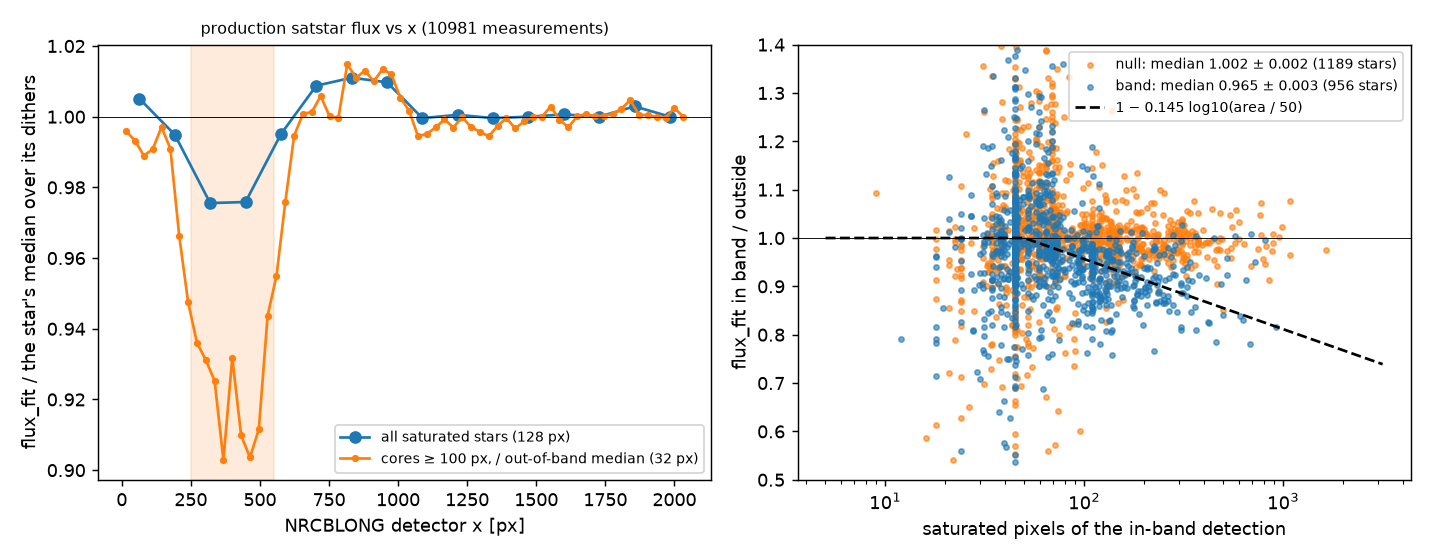
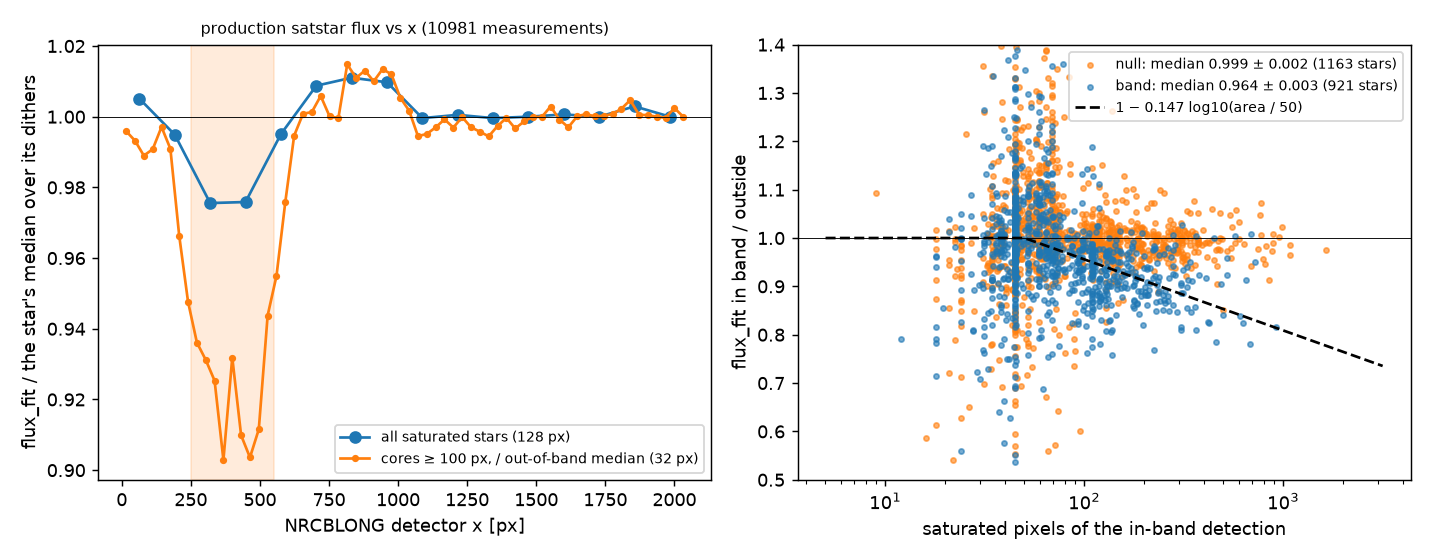
production_flux_vs_x: clean "outside" set, band / null per area bin (review of #1053)
"Outside" now excludes both the band and the null band (+-50 px), so the
band's low dithers no longer lower the null's denominator.  The null keeps a
weak size trend (1.011 -> 0.984), so band / null per sat_area bin is
reported as the column term: 0.993, 0.957, 0.919, 0.856.  Depth model
k = 0.147 (was 0.145).  README notes the two area definitions.

Claude-Session: https://claude.ai/code/session_019Hxd1TwexvNohkczb2tYoE

diff --git a/scripts/analysis/satstar_perexp_halo/production_flux_vs_x.py b/scripts/analysis/satstar_perexp_halo/production_flux_vs_x.py
@@ -108,7 +108,11 @@ def analyze(outp, workdir):
         for k in clusters:
             x = np.array([r['x'] for r in k['rows']]); F = np.array([r['flux'] for r in k['rows']])
             inb = (x > lo) & (x < hi)
-            out = (x < lo - 50) | (x > hi + 50)
+            # "outside" excludes BOTH regions (+-50 px), so neither the band's
+            # low dithers nor the null's enter the other's denominator
+            out = np.ones(x.size, bool)
+            for a, b in (BAND, NULL_BAND):
+                out &= (x < a - 50) | (x > b + 50)
             if inb.sum() < 1 or out.sum() < 2:
                 continue
             q.append(np.median(F[inb]) / np.median(F[out])); fmed.append(np.median(F))
@@ -128,6 +132,11 @@ def analyze(outp, workdir):
             res[name]['by_sat_area'][f'{lo:g}-{hi:g}'] = dict(n_stars=int(m.sum()), median_ratio=float(np.median(q[m])),
                                                              err=float(np.std(bsm)))
         per[name] = (q, fmed, amed, ain)
+    # the column term: band / null per area bin (a size trend common to both cancels)
+    res['band_over_null_by_sat_area'] = {
+        k: dict(ratio=v['median_ratio'] / res['null']['by_sat_area'][k]['median_ratio'],
+                err=float(np.hypot(v['err'], res['null']['by_sat_area'][k]['err'])))
+        for k, v in res['band']['by_sat_area'].items() if k in res['null']['by_sat_area']}
     # proposed correction: in-band depth = k log10(area / A0) above A0, with
     # area the core area OF THE IN-BAND DETECTION (what a per-detection
     # correction has); robust (L1) grid fit over the band stars

diff --git a/scripts/analysis/satstar_perexp_halo/README.md b/scripts/analysis/satstar_perexp_halo/README.md
@@ -103,20 +103,23 @@ comparison.
 
 Note that the catalog's `x_fit`/`y_fit` are positions inside the fit box; the detector position is `x_0`/`y_0`, which agrees with `skycoord_fit` through the GWCS to 0.0005 px.
 
-- **Data:** obs 041, 061, 075 and 086 of 10678, 24 NRCBLONG frames, 16,397 catalog rows. 956 stars have dithers both in the band (x = 250–550) and outside it.
+- **Data:** obs 041, 061, 075 and 086 of 10678, 24 NRCBLONG frames, 16,397 catalog rows. 921 stars have dithers both in the band (x = 250–550) and outside it. "Outside" excludes both the band and the null band (±50 px).
 - **The production flux is low in the band, and more so for larger cores.** Median `flux_fit` in band / outside, by the star's median `sat_area`:
 
-  | `sat_area` | band | null (x = 1300–1600) |
-  |---|---|---|
-  | < 50 | 1.002 ± 0.004 (376 stars) | 1.012 |
-  | 50–150 | 0.959 ± 0.004 (421 stars) | 1.003 |
-  | 150–500 | 0.912 ± 0.005 (139 stars) | 0.993 |
-  | ≥ 500 | 0.844 ± 0.028 (20 stars) | 0.985 |
+  | `sat_area` | band | null (x = 1300–1600) | band / null |
+  |---|---|---|---|
+  | < 50 | 1.003 ± 0.004 (360 stars) | 1.011 ± 0.006 | 0.993 ± 0.007 |
+  | 50–150 | 0.957 ± 0.004 (404 stars) | 1.000 ± 0.002 | 0.957 ± 0.004 |
+  | 150–500 | 0.910 ± 0.005 (138 stars) | 0.990 ± 0.003 | 0.919 ± 0.006 |
+  | ≥ 500 | 0.842 ± 0.025 (19 stars) | 0.984 ± 0.006 | 0.856 ± 0.026 |
+
+  This table bins on the star's median `sat_area` over all its dithers. The depth model below uses the in-band detection's own area, which is smaller.
+  The null band has a weak size trend of its own (1.011 → 0.984), so band / null (`band_over_null_by_sat_area`) isolates the column term.
 
   This is smaller than the ~20% halo deficit: the masked-core fit also uses the inner wings, which are flat in x.
-- **Depth model** (robust fit, `depth_model`): in band / outside = 1 − 0.145 · max(0, log10(sat_area / 50)). Here `sat_area` is the core area *of the in-band detection*, which is what a per-detection correction has.
+- **Depth model** (robust fit, `depth_model`): in band / outside = 1 − 0.147 · max(0, log10(sat_area / 50)). Here `sat_area` is the core area *of the in-band detection*, which is what a per-detection correction has.
 - **Shape** (`xshape32`, cores ≥ 100 px): a trough from x ≈ 190 to 600, 0.90–0.93 over x = 320–512. It matches the core-area stripe of step 10. Outside it the flux is within ±1.5%.
-- **Proposed correction (not applied):** `flux_fit / (1 − 0.145 · max(0, log10(sat_area / 50)) · s(x))`.
+- **Proposed correction (not applied):** `flux_fit / (1 − 0.147 · max(0, log10(sat_area / 50)) · s(x))`.
   - s(x) is the `xshape32` trough normalized to 1 in the band. It is NRCBLONG only.
   - It is calibrated on F480M 10678 only.
   - The mechanism is still open (JWST-GC/data-qa#349), so it is an empirical, per-detector term.
